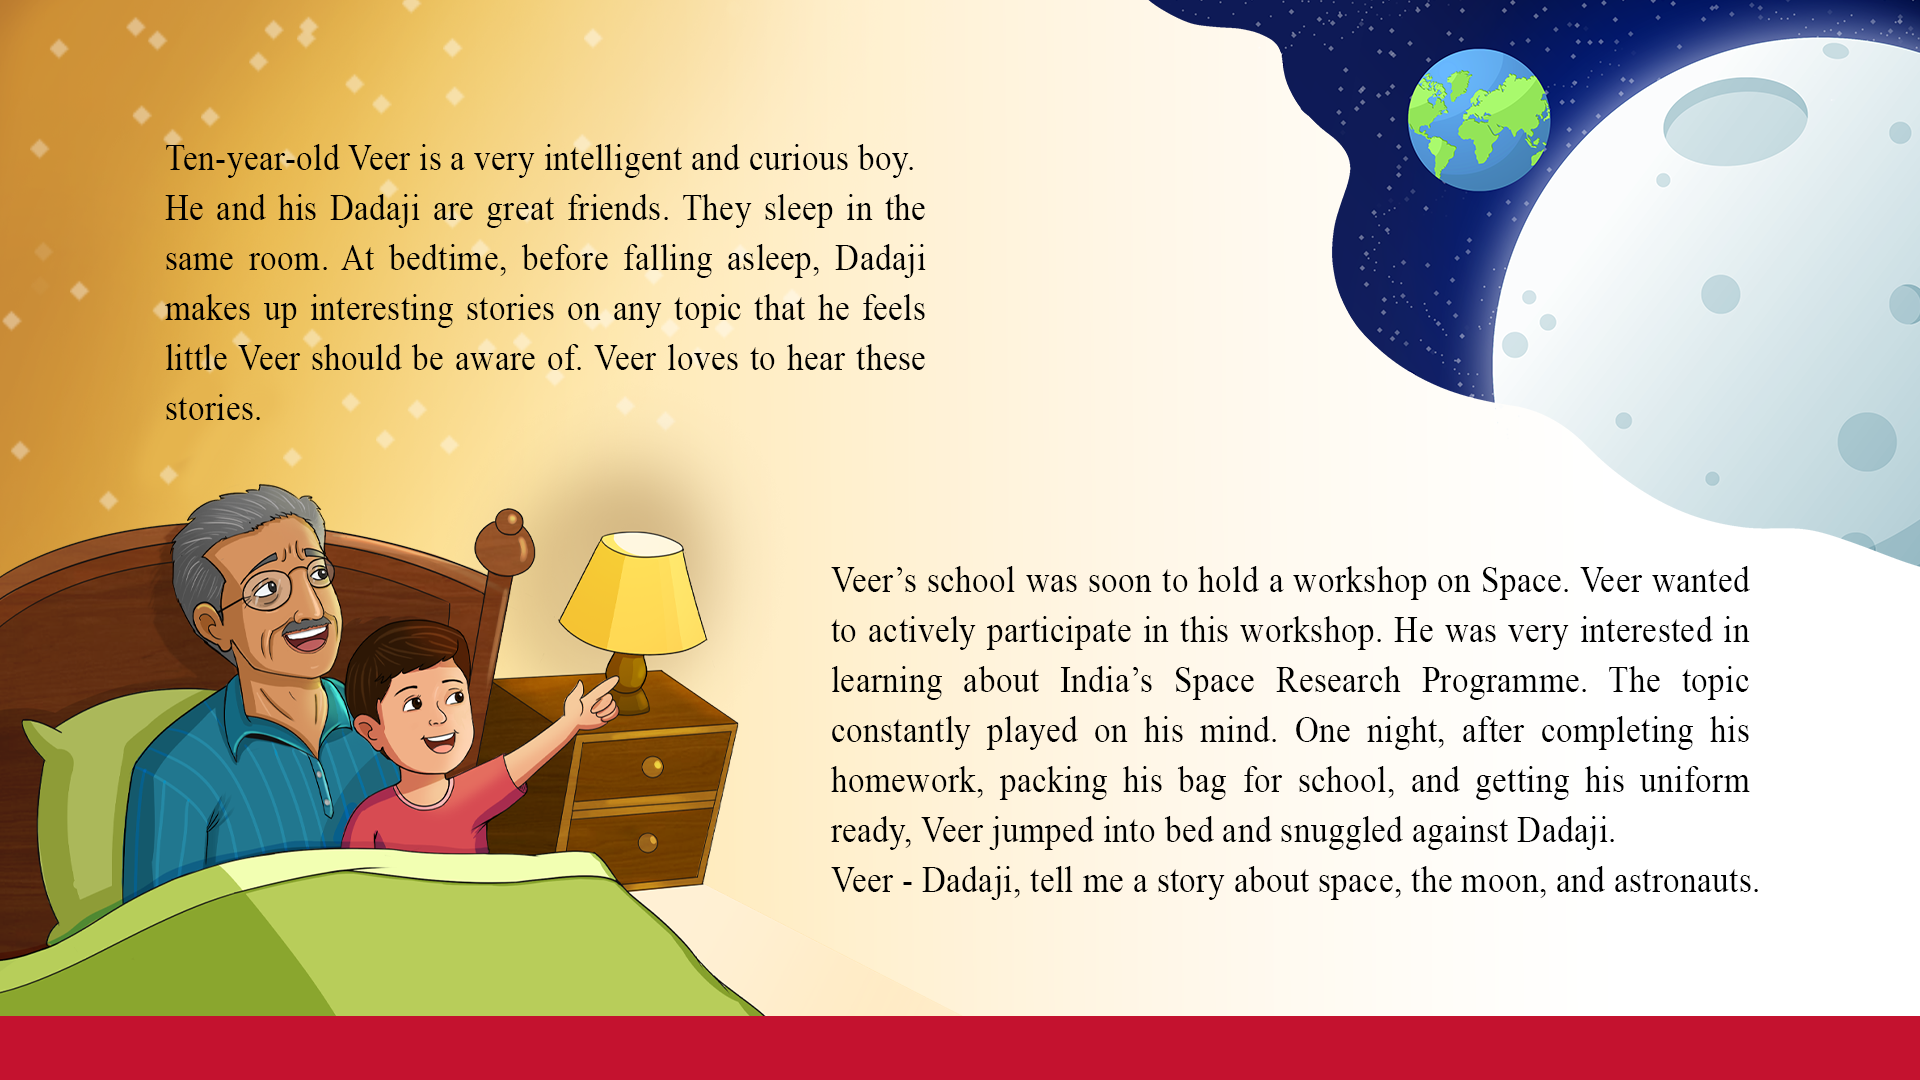
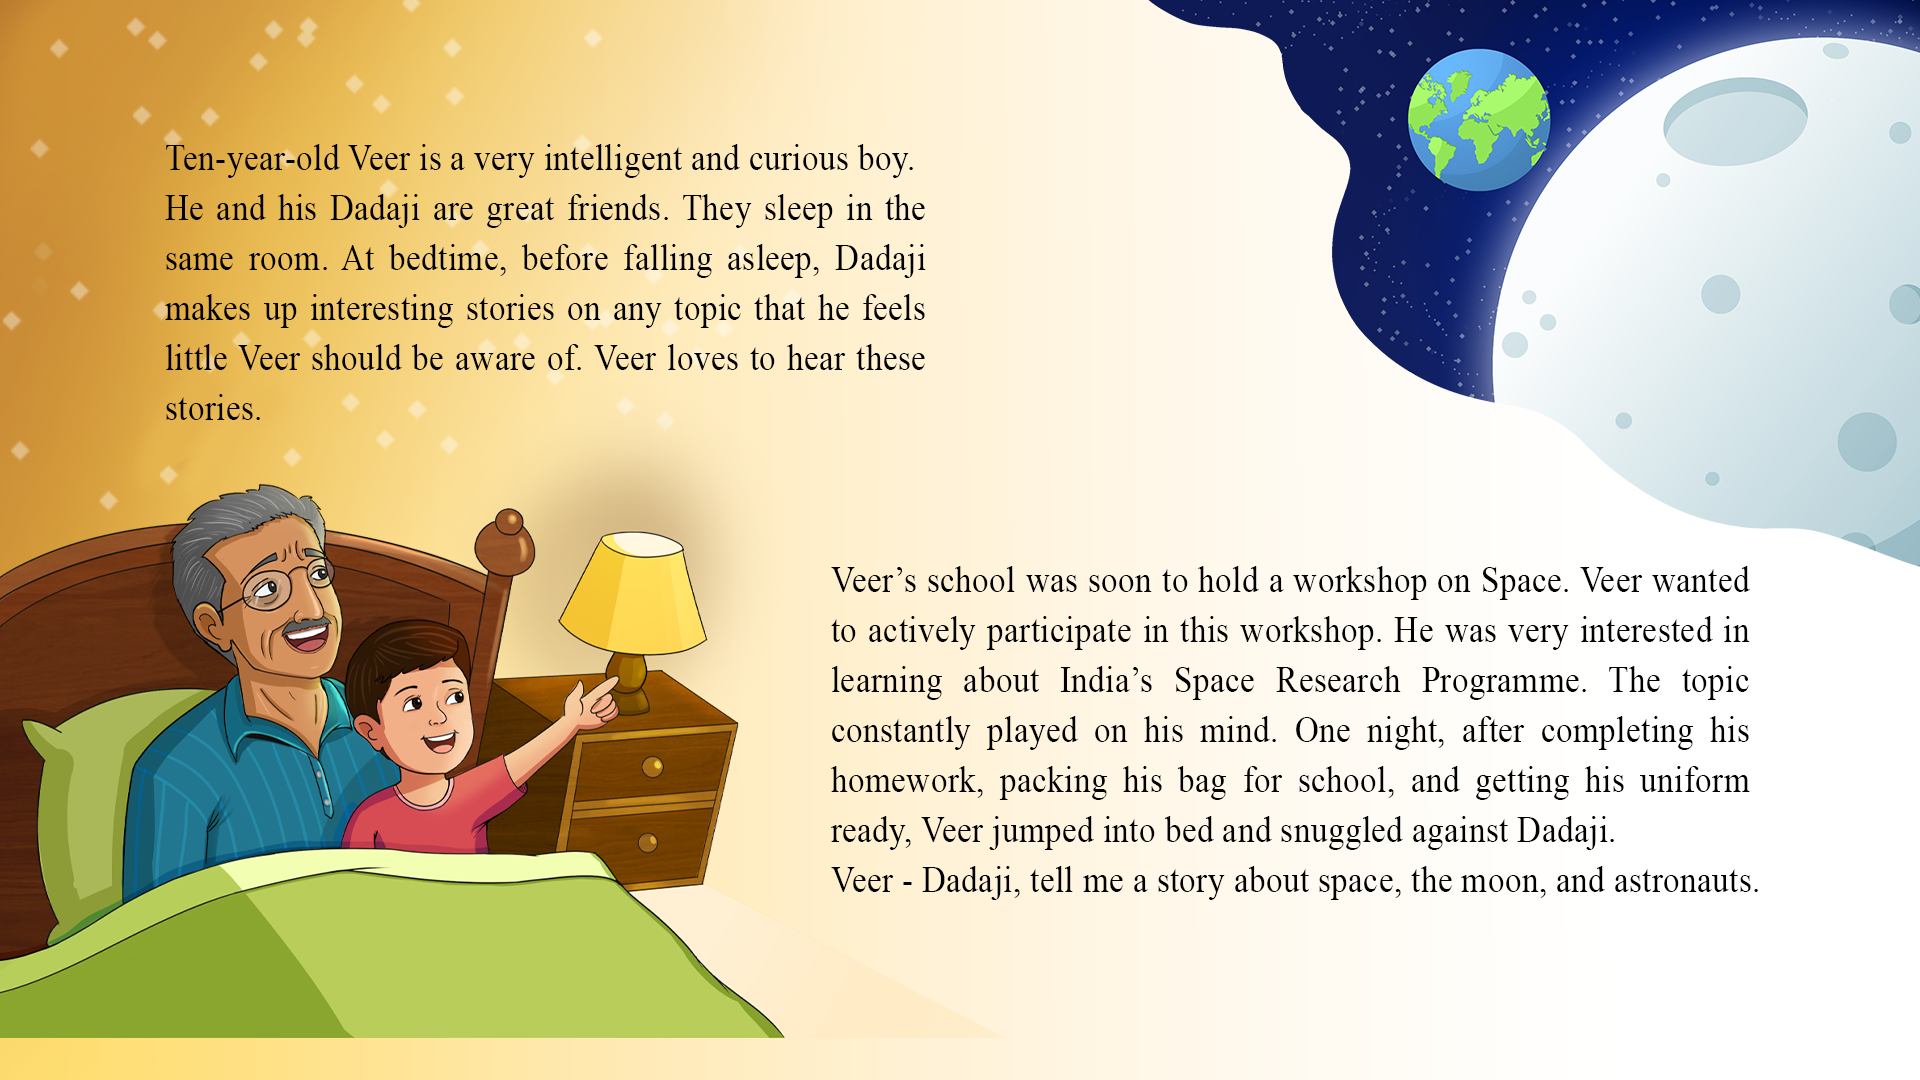
Changes Updated

Changed region(s): [[0.0, 0.9167, 1.0, 1.0]]

diff --git a/src/Pages/Page1/Page1.jsx b/src/Pages/Page1/Page1.jsx
@@ -20,7 +20,7 @@ export default function Page1() {
 
   return (
     <>
-      <section className="w-[100vw] h-[100vh] page1 bg-cover overflow-hidden">
+      <section className="w-full h-full page1 bg-contain overflow-hidden">
         <div className="grid grid-cols-10 gap-4">
           {/* <div className="col-span-6">
             <p className="p-12 text-lg font-medium">
@@ -31,9 +31,9 @@ export default function Page1() {
               Veer loves to hear these stories.
             </p>
           </div> */}
-          {/* <div className="col-span-4 flex items-start justify-start">
+          <div className="col-span-4 flex items-start justify-start">
             <img src={satellite} alt="Satellite" className="w-40 h-40 pt-8 mx-96 animate-pulse" />
-          </div> */}
+          </div>
         </div>
         <div className="m-64 grid grid-cols-10 gap-2">
           <div></div>
@@ -55,7 +55,7 @@ export default function Page1() {
                 </p>
               </div> */}
               <div className="flex gap-4 items-end justify-end">
-                <img src={speaker} alt="Speaker Icon" className="cursor-pointer" />
+                <img src={speaker} alt="Speaker Icon" className="cursor-pointer flex items-end justify-end" />
               </div>
             </div>
           </div>

diff --git a/src/Pages/Home.jsx b/src/Pages/Home.jsx
@@ -5,7 +5,7 @@ import coverBG from "../assets/images/home/homePageBG1.png"
 export default function Home() {
   return (
     <>
-      <section className="w-[100vw] h-[100vh] bgHome">
+      <section className="w-[100vw] h-[135vh] bgHome overflow-hidden">
         <div className="flex items-end justify-end pr-5 py-10">
           <img
             src={lang}
@@ -14,7 +14,7 @@ export default function Home() {
           />          
         </div>
         <div className="flex items-center justify-center lg:bottom-4 xl:p-0">
-            <img src={coverBG} alt="Chandrayaan 3" className="md:w-[29rem] lg:w-[30rem] xl:w-[38rem] lg:bottom-8 xl:bottom-0" />
+            <img src={coverBG} alt="Chandrayaan 3" className="md:w-[20rem] lg:w-[25rem] xl:w-[38rem] lg:bottom-8 xl:bottom-0" />
           </div>
       </section>
       <FooterMain />
